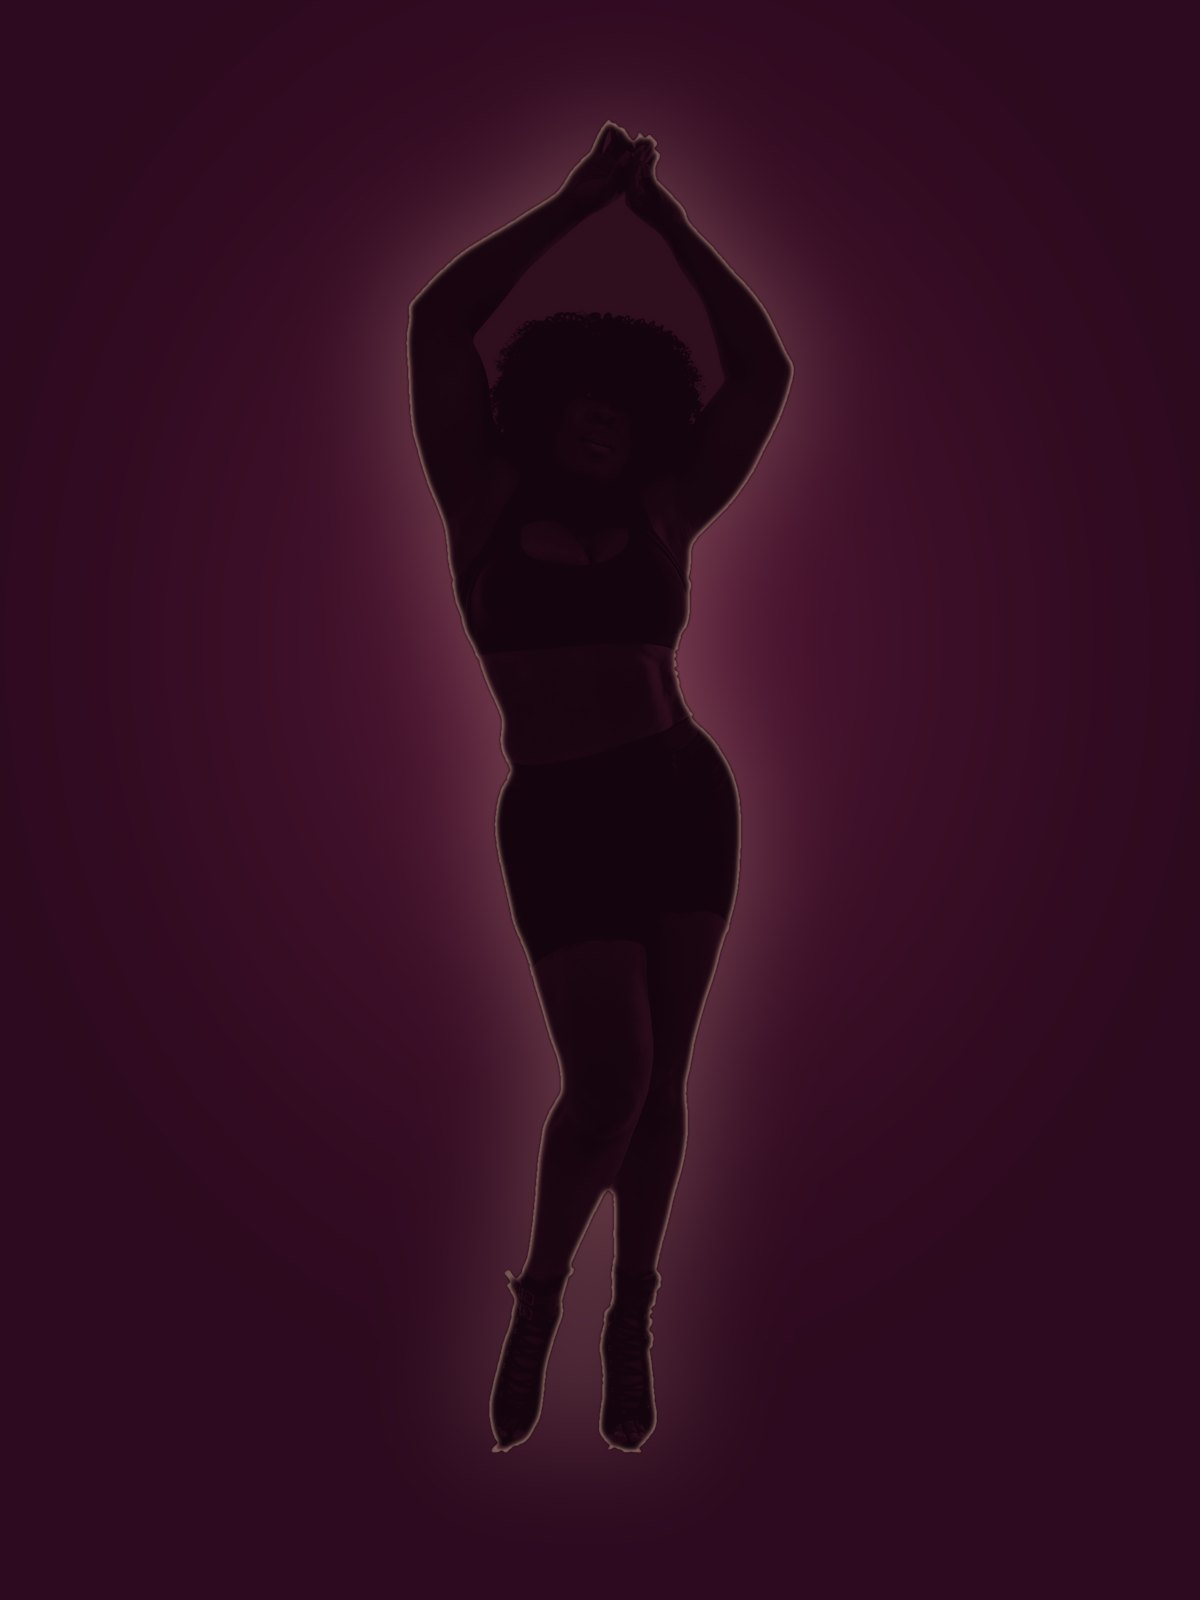
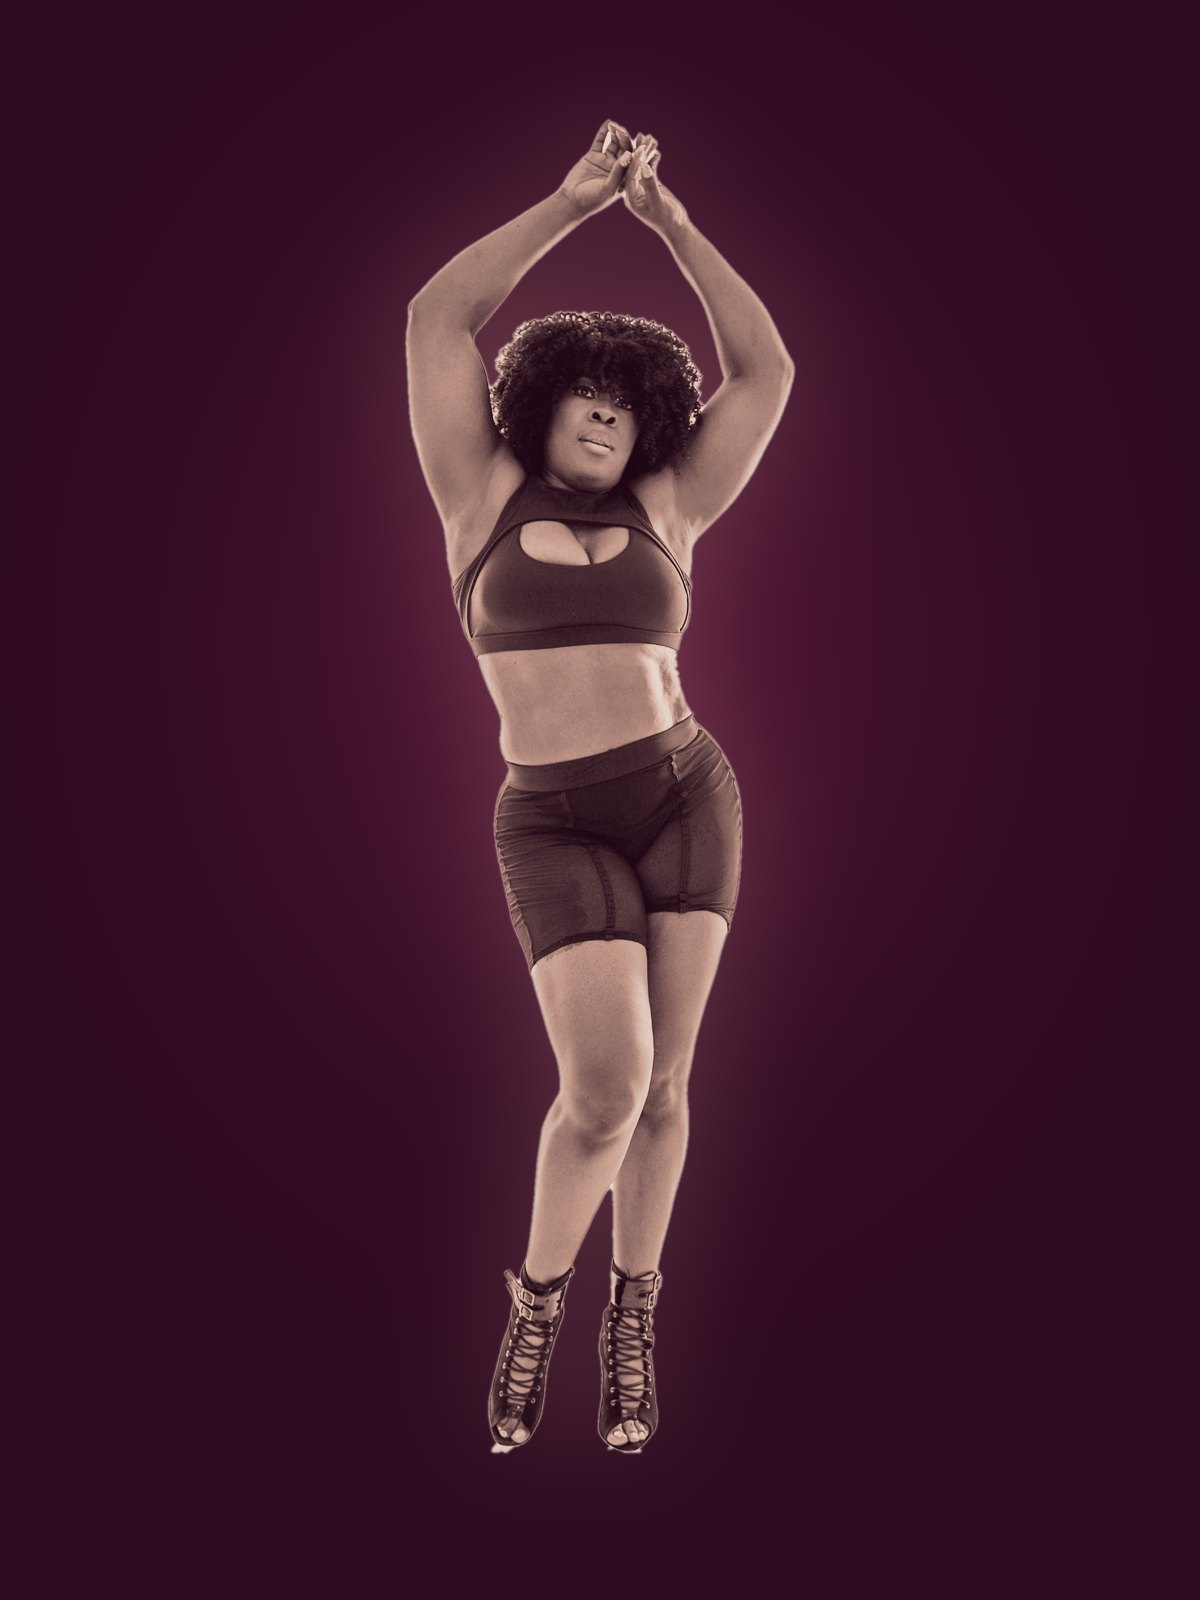
Use toned founder photo that shows Toni's face
Claude-Session: https://claude.ai/code/session_01BzASYjutW281gY9GKnX8DX

Changed region(s): [[0.3392, 0.0625, 0.6783, 0.9062]]

diff --git a/index.html b/index.html
@@ -1261,7 +1261,7 @@
   <!-- FOUNDER -->
   <section class="founder reveal">
     <figure class="founder-photo">
-      <img src="images/founder.jpg" alt="Toni Scott in silhouette, arms raised, against a soft rose-gold glow" loading="lazy" width="1200" height="1600" />
+      <img src="images/founder.jpg" alt="Toni Scott, arms raised, in plum and rose-gold tones" loading="lazy" width="1200" height="1600" />
       <figcaption class="founder-credit">Photo &middot; Don Curry</figcaption>
     </figure>
     <div class="founder-content">
